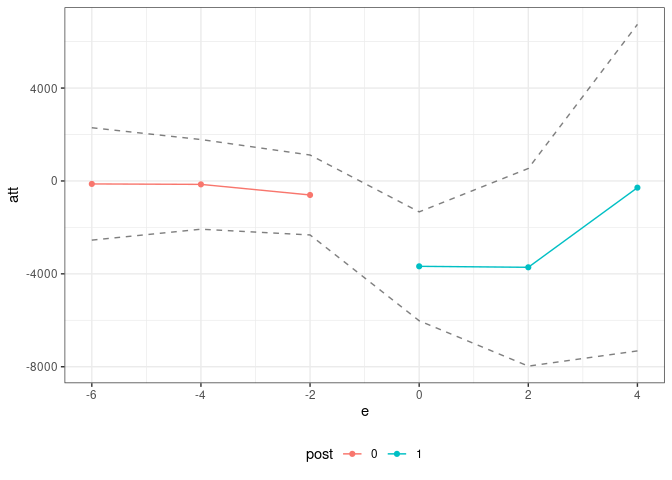
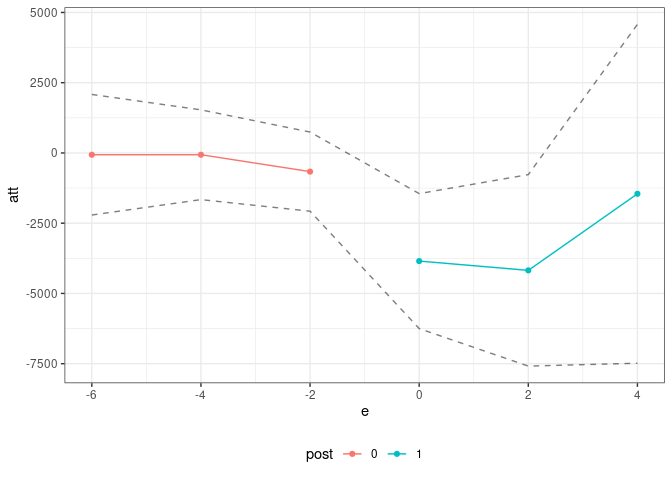
return first stage results for each (g,t)

diff --git a/README.md b/README.md
@@ -32,26 +32,27 @@ res <- ife(yname="earn",
            idname="id",
            data=job_displacement_data,
            nife=1,
-           xformla=~1,
-           zformla=~afqt,
+           xformla=~EDUC + race + gender,
+           zformla=~EDUC + race + gender + afqt,
            anticipation=1,
-           biters=100)
+           alp=0.1,
+           biters=1000)
 
 summary(res)
 #> 
 #> Overall ATT:  
-#>        ATT    Std. Error     [ 95%  Conf. Int.]  
-#>  -3601.244      1181.444  -5916.831   -1285.656 *
+#>        ATT    Std. Error     [ 90%  Conf. Int.]  
+#>  -3913.851      1192.724  -5875.707   -1951.994 *
 #> 
 #> 
 #> Dynamic Effects:
-#>  Event Time   Estimate Std. Error     [95%  Conf. Band]  
-#>          -6  -128.1452   945.3208 -2547.989   2291.6984  
-#>          -4  -147.2724   754.2751 -2078.075   1783.5301  
-#>          -2  -604.1940   672.3056 -2325.170   1116.7821  
-#>           0 -3676.2366   916.0095 -6021.049  -1331.4245 *
-#>           2 -3718.2831  1662.4422 -7973.823    537.2565  
-#>           4  -288.4408  2746.5356 -7319.056   6742.1745  
+#>  Event Time   Estimate Std. Error     [90%  Conf. Band]  
+#>          -6   -63.8360   939.6738 -2209.276   2081.6039  
+#>          -4   -63.4326   699.6486 -1660.853   1533.9877  
+#>          -2  -664.5203   617.0093 -2073.261    744.2200  
+#>           0 -3848.8739  1051.8789 -6250.498  -1447.2502 *
+#>           2 -4179.1319  1492.4485 -7586.653   -771.6106 *
+#>           4 -1454.0791  2640.8284 -7483.553   4575.3947  
 #> ---
 #> Signif. codes: `*' confidence band does not cover 0
 ggpte(res)
